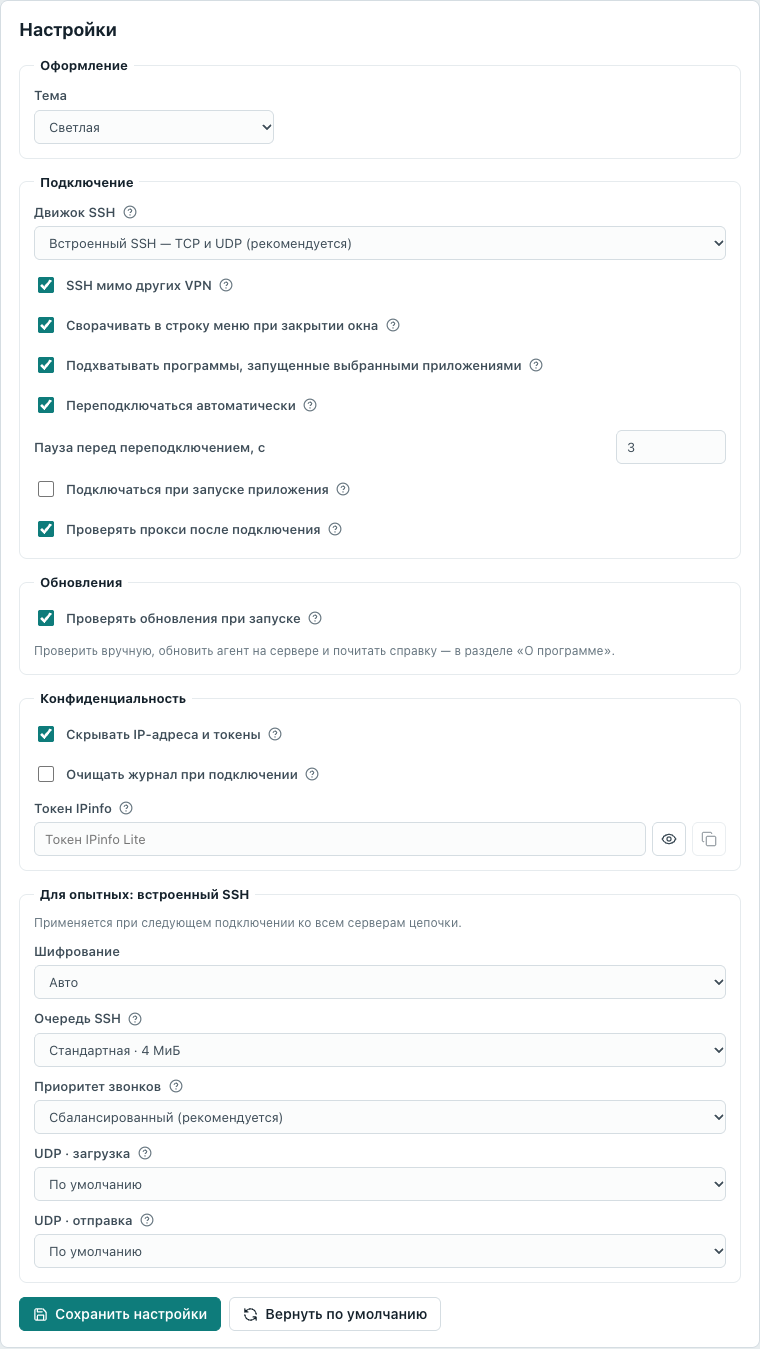
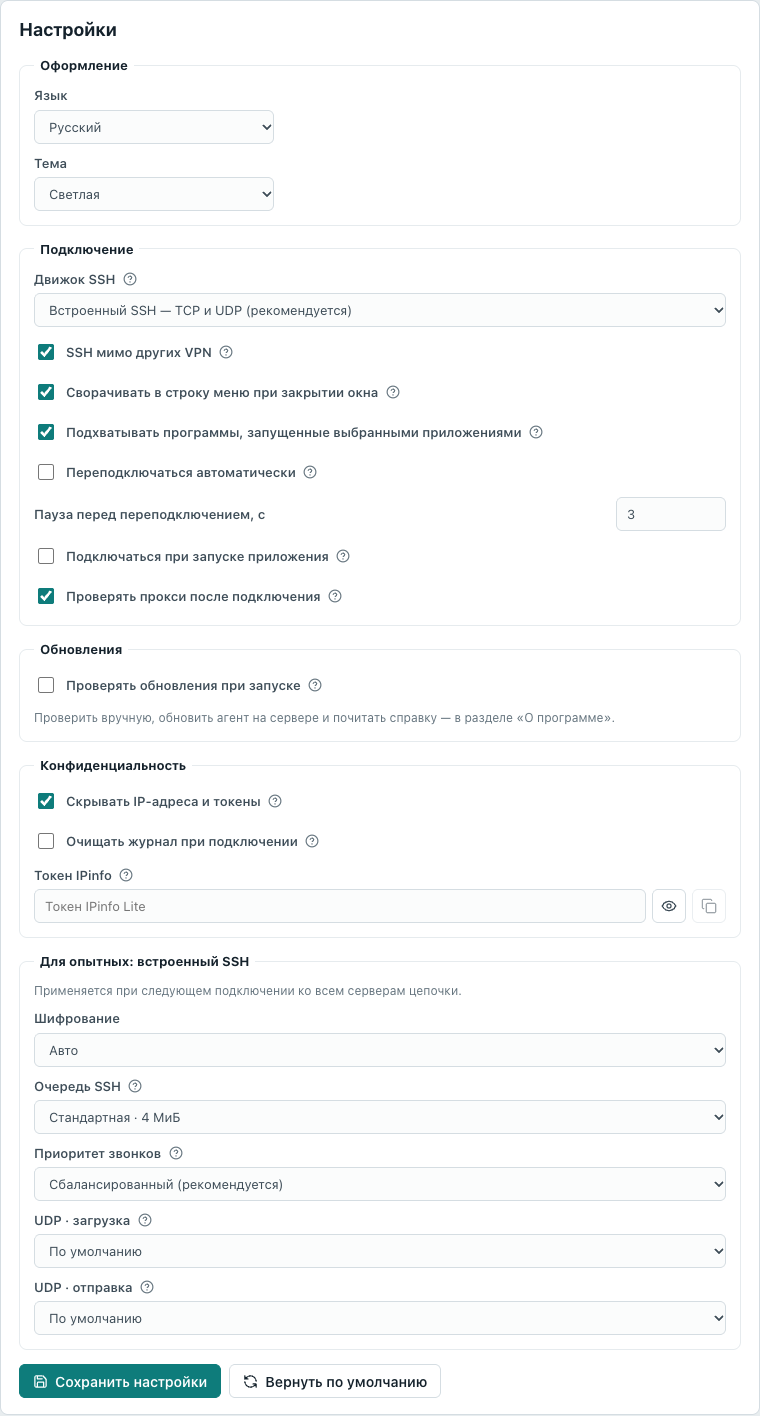
Site from 75aabd5

diff --git a/guide.html b/guide.html
@@ -438,8 +438,9 @@ PASS STMUX003: TCP half-close; empty/voice/51200-byte UDP; 24 isolated associati
         <h2><a href="#settings">13. Настройки приложения</a></h2>
         <p class="use-notice"><strong>Условия использования.</strong> Используйте Secret Tunnel для подключения к серверам и ресурсам, к которым у вас есть право доступа. Соблюдайте применимое законодательство, в том числе установленные в России ограничения доступа к информации.</p>
         <p>Значения по умолчанию подходят большинству. Менять ничего не обязательно.</p>
-        <figure class="shot shot-tall" data-shot="settings-mac" data-pins="36,9.5;95,18;2.5,21.1;2.5,24.1;2.5,27.1;2.5,30;94,33.2;2.5,36.3;2.5,39.2;2.5,45.8;2.5,54.5;2.5,57.4;95,62;2.5,66.4;2.5,97.5"><img src="assets/guide/settings-mac.webp" width="760" height="1349" alt="Вкладка «Настройки» с выбором темы и параметрами подключения"></figure>
+        <figure class="shot shot-tall" data-shot="settings-mac" data-pins="35.0,8.9;35.0,13.7;94.5,21.9;2.5,24.9;2.5,27.7;2.5,30.5;2.5,33.4;94.5,36.3;2.5,39.3;2.5,42.1;2.5,48.4;2.5,56.6;2.5,59.4;83.9,64.0;32.6,67.9;28.1,97.6"><img src="assets/guide/settings-mac.webp" width="760" height="1416" alt="Вкладка «Настройки» с выбором языка, темы и параметрами подключения"></figure>
         <ol class="legend">
+          <li><b>Язык.</b> В разделе «Оформление» выберите «Русский» или «English». Выбор сохраняется автоматически; работающий туннель не перезапускается.</li>
           <li><b>Тема.</b> В разделе «Оформление» выберите «Системная», «Светлая» или «Тёмная». Тема меняется сразу и сохраняется автоматически.</li>
           <li><b>Движок SSH.</b> «Встроенный SSH» передаёт TCP и UDP и умеет цепочки — оставьте его. «Системный OpenSSH» — только TCP, для особых случаев.</li>
           <li><b>SSH мимо других VPN</b> (только macOS). При включённой настройке SSH использует физическое подключение Wi-Fi или Ethernet. Если ваш сервер доступен через корпоративный VPN, отключите эту настройку.</li>
